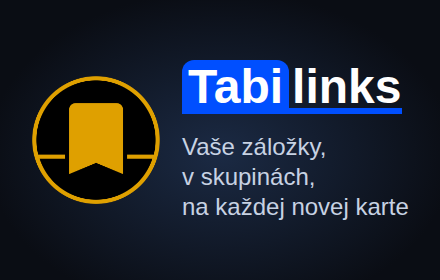
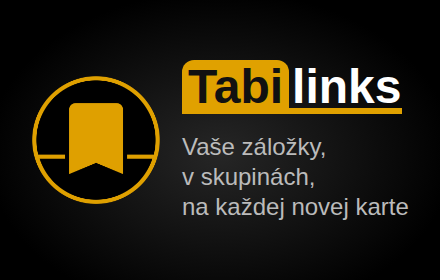
Promo tiles in black and amber, no blue
The wordmark and background follow the website's current colours: the
amber accent with dark text on it, a black background, muted grey tagline.

Changed region(s): [[0.2364, 0.2, 0.9455, 0.8857]]

diff --git a/store/materials/promo/small-promo-tile-sk.html b/store/materials/promo/small-promo-tile-sk.html
@@ -5,9 +5,9 @@
     --screenshot=small-promo-tile-sk-raw.png small-promo-tile-sk.html
   then strip the alpha channel (the store wants 24-bit PNG).
 
-  The wordmark is the website's .page-header__title
-  (new-tab-links-frontend/src/app/shared/layout/page-header/page-header.scss),
-  with its colours from design-tokens.scss.
+  The wordmark is drawn in the website's colours: black, and the amber accent with dark
+  text on it (--color-accent, --color-accent-text, --color-text-muted),
+  from new-tab-links-frontend/src/design-tokens.scss. No blue anywhere.
 -->
 <html lang="sk">
 <head>
@@ -15,14 +15,15 @@
 <style>
   :root {
     --color-text: #fff;
-    --color-accent: #004fff;
+    --color-accent: #e0a100;
+    --color-accent-text: #111;
     --font-family: Arial, Helvetica, sans-serif;
   }
   html, body { margin: 0; width: 440px; height: 280px; overflow: hidden; }
   body {
     font-family: var(--font-family);
     color: var(--color-text);
-    background: radial-gradient(ellipse at 50% 55%, #1b2a44 0%, #0a0d14 75%);
+    background: radial-gradient(ellipse at 50% 55%, #262626 0%, #000 75%);
     display: flex;
     align-items: center;
     gap: 20px;
@@ -32,7 +33,7 @@
   .logo { width: 132px; height: 132px; flex: none; }
   .text { display: flex; flex-direction: column; gap: 18px; }
 
-  /* .page-header__title, as on tabilinks.app */
+  /* the wordmark, in the website's accent */
   .title {
     font-weight: bold;
     font-size: 48px;
@@ -41,7 +42,7 @@
   }
   .title em {
     font-style: normal;
-    color: var(--color-text);
+    color: var(--color-accent-text);
     background-color: var(--color-accent);
     padding: 0 0.125em;
     border-top-left-radius: 0.25em;
@@ -59,7 +60,7 @@
     background-color: var(--color-accent);
   }
 
-  .tagline { font-size: 24px; line-height: 1.25; color: #c7d2e3; }
+  .tagline { font-size: 24px; line-height: 1.25; color: #bbb; }
 </style>
 </head>
 <body>

diff --git a/store/materials/promo/small-promo-tile.html b/store/materials/promo/small-promo-tile.html
@@ -5,9 +5,9 @@
     --screenshot=small-promo-tile-raw.png small-promo-tile.html
   then strip the alpha channel (the store wants 24-bit PNG).
 
-  The wordmark is the website's .page-header__title
-  (new-tab-links-frontend/src/app/shared/layout/page-header/page-header.scss),
-  with its colours from design-tokens.scss.
+  The wordmark is drawn in the website's colours: black, and the amber accent with dark
+  text on it (--color-accent, --color-accent-text, --color-text-muted),
+  from new-tab-links-frontend/src/design-tokens.scss. No blue anywhere.
 -->
 <html>
 <head>
@@ -15,14 +15,15 @@
 <style>
   :root {
     --color-text: #fff;
-    --color-accent: #004fff;
+    --color-accent: #e0a100;
+    --color-accent-text: #111;
     --font-family: Arial, Helvetica, sans-serif;
   }
   html, body { margin: 0; width: 440px; height: 280px; overflow: hidden; }
   body {
     font-family: var(--font-family);
     color: var(--color-text);
-    background: radial-gradient(ellipse at 50% 55%, #1b2a44 0%, #0a0d14 75%);
+    background: radial-gradient(ellipse at 50% 55%, #262626 0%, #000 75%);
     display: flex;
     align-items: center;
     gap: 20px;
@@ -32,7 +33,7 @@
   .logo { width: 132px; height: 132px; flex: none; }
   .text { display: flex; flex-direction: column; gap: 18px; }
 
-  /* .page-header__title, as on tabilinks.app */
+  /* the wordmark, in the website's accent */
   .title {
     font-weight: bold;
     font-size: 48px;
@@ -41,7 +42,7 @@
   }
   .title em {
     font-style: normal;
-    color: var(--color-text);
+    color: var(--color-accent-text);
     background-color: var(--color-accent);
     padding: 0 0.125em;
     border-top-left-radius: 0.25em;
@@ -59,7 +60,7 @@
     background-color: var(--color-accent);
   }
 
-  .tagline { font-size: 24px; line-height: 1.25; color: #c7d2e3; }
+  .tagline { font-size: 24px; line-height: 1.25; color: #bbb; }
 </style>
 </head>
 <body>
